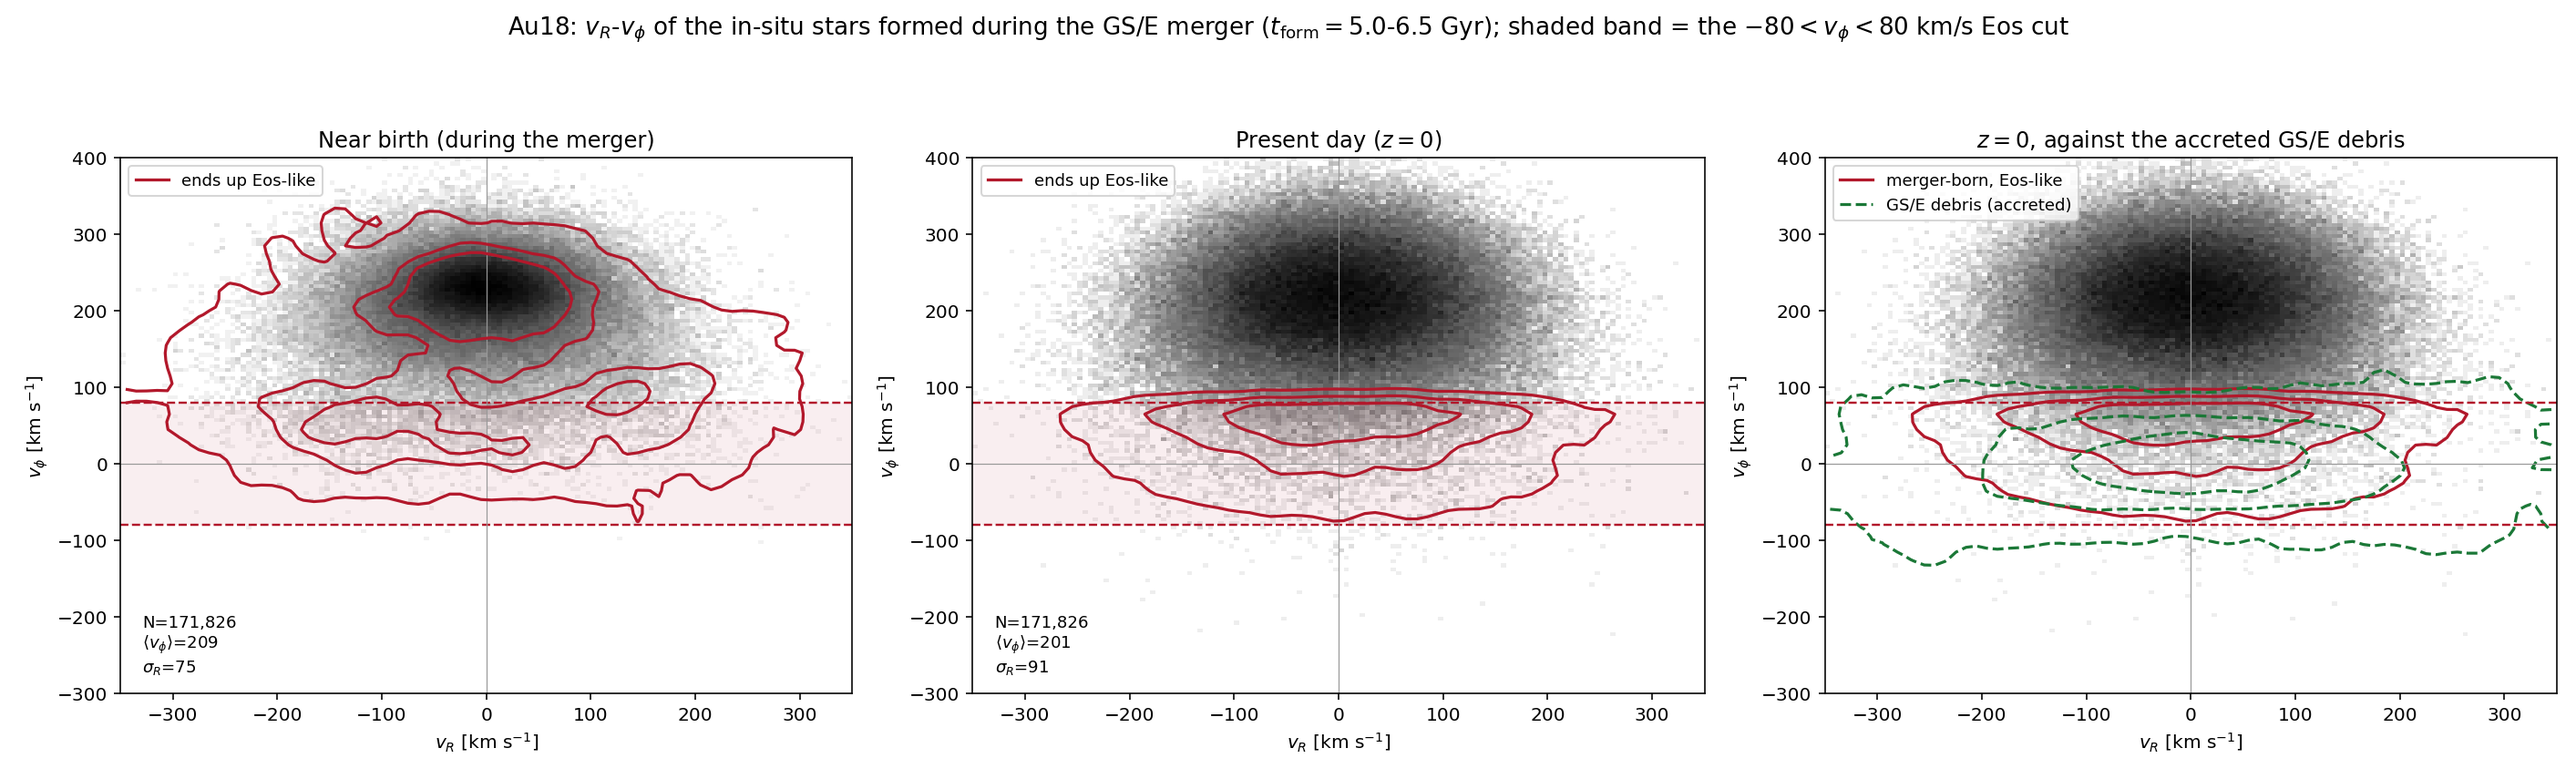
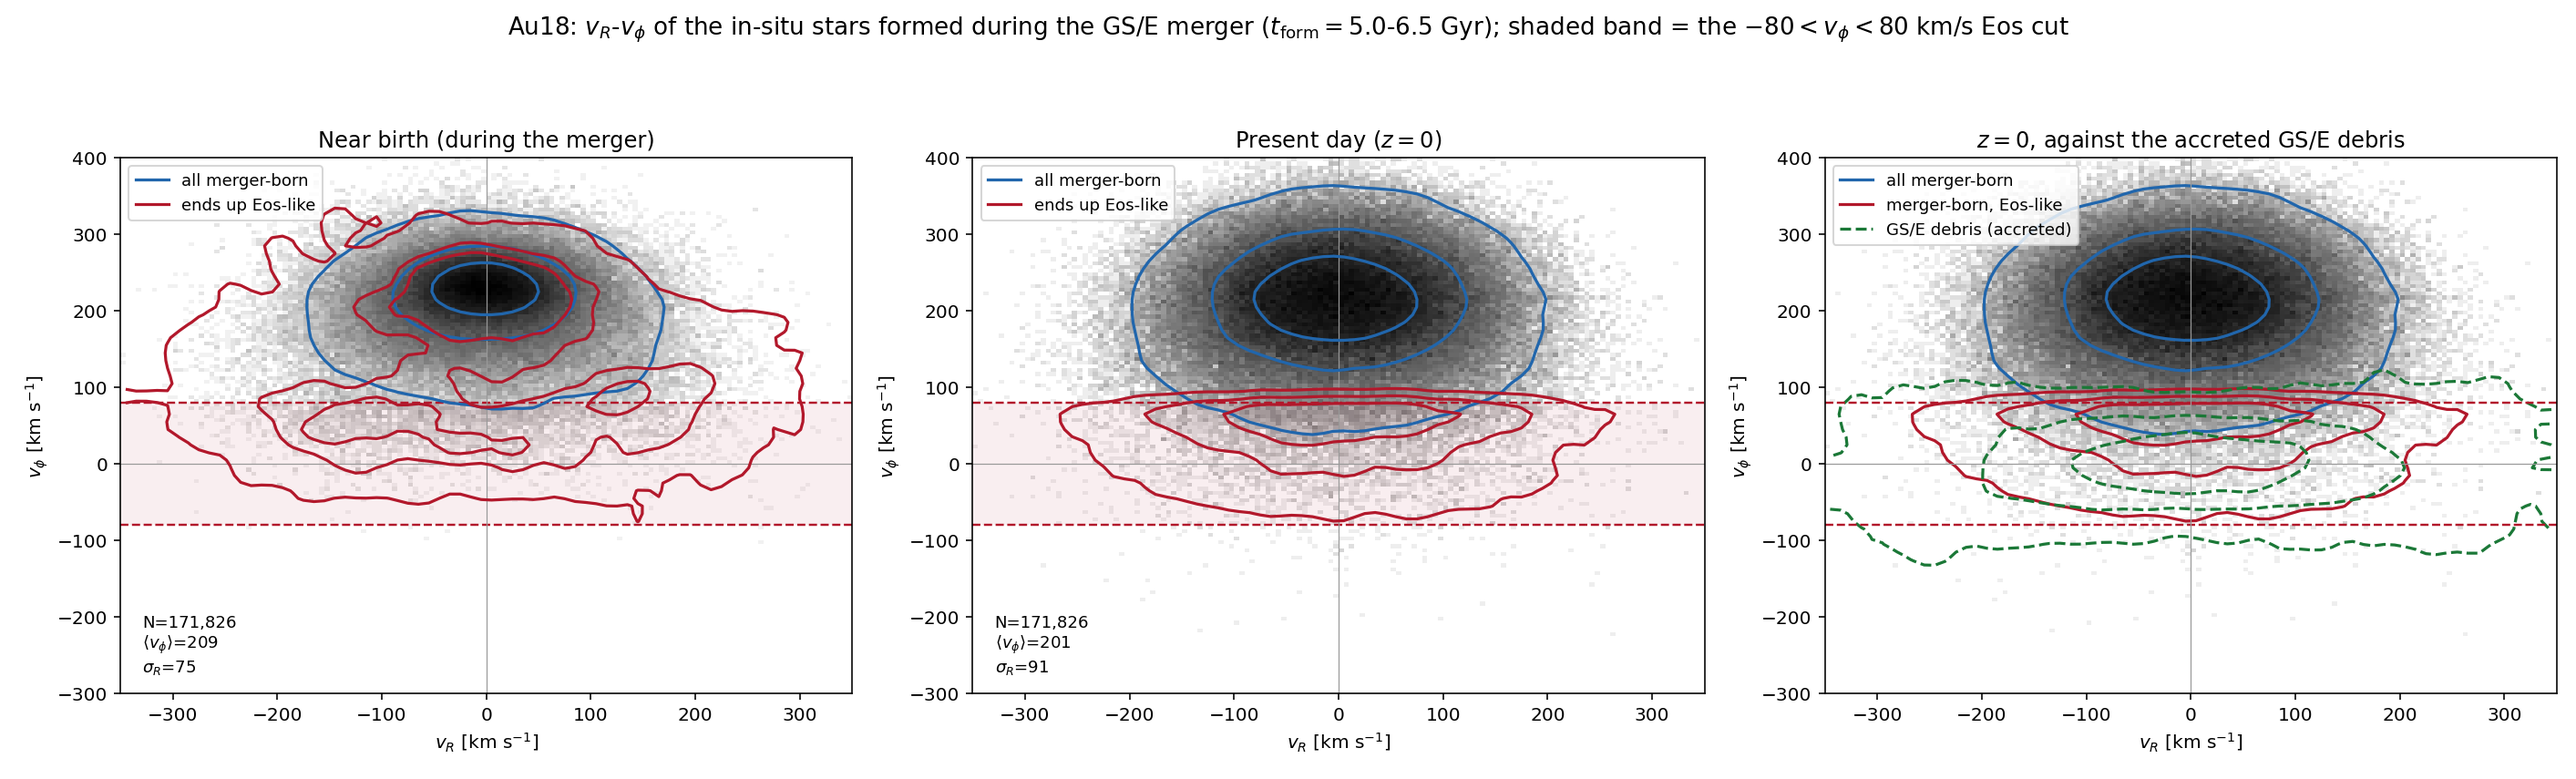
Contour the parent population on the merger v_R-v_phi planes
The Eos-like contours were previously drawn against the greyscale alone, which
makes it hard to judge how far they sit from the population they came from. All
merger-born stars now get their own contours at the same levels on every panel.

Also prints both fractions explicitly, since "fraction of merger-born" was
ambiguous. Of the stars born during the merger window, 4.41% end up Eos-like
(7,583 / 171,826). Read the other way, 17.70% of the galaxy's Eos-like stars were
born in that window (31,651 / 178,785) -- against the 16.92% of all in-situ stars
the window contains, so the merger epoch is barely over-represented among
Eos-like stars by this measure.

diff --git a/auriga/ana_merger_vr_vphi.py b/auriga/ana_merger_vr_vphi.py
@@ -54,6 +54,18 @@ print(f'  of these, Eos-like at z=0 ({-VPHI_MAX:.0f}<v_phi<{VPHI_MAX:.0f}, ecc>{
 print(f'  their v_phi at birth: median {np.median(bvphi[eos]):.1f} km/s '
       f'(whole sample {np.median(bvphi):.1f})')
 
+# Two different fractions, easy to confuse:
+#  (i)  of the stars born during the merger, how many end up Eos-like
+#  (ii) of all the Eos-like stars in the galaxy, how many were born in the merger
+eos_all = (np.abs(cat['vphi']) < VPHI_MAX) & (cat['ecc'] > ECC_MIN)
+born_in = (cat['tform'] > tform.min()) & (cat['tform'] < tform.max())
+print(f"\n  (i)  merger-born stars that end up Eos-like : {eos.sum():,} / {len(bvR):,}"
+      f" = {100*eos.mean():.2f}%")
+print(f"  (ii) Eos-like stars that were born in the merger window : "
+      f"{(eos_all & born_in).sum():,} / {eos_all.sum():,} = "
+      f"{100*(eos_all & born_in).sum()/eos_all.sum():.2f}%")
+print(f"       for scale, that window holds {100*born_in.mean():.2f}% of all in-situ stars")
+
 g_ok = np.isfinite(cat['gse_vphi'])
 fig, axes = plt.subplots(1, 3, figsize=(19.5, 5.9))
 
@@ -67,6 +79,10 @@ for ax, (x, y, title) in zip(axes[:2], [
         ax.axhline(v, color=C_EOS, lw=1.2, ls='--')
     ax.axhline(0, color='.6', lw=.6)
     ax.axvline(0, color='.6', lw=.6)
+    # the parent population, so the Eos contours can be read against it rather
+    # than against the greyscale alone
+    OT.density_contours(ax, x, y, RNG, '#2166ac', label='all merger-born',
+                        levels=(0.9, 0.6, 0.3), bins=70)
     # the subset that ends up Eos-like, on both planes
     OT.density_contours(ax, x[eos], y[eos], RNG, C_EOS, label='ends up Eos-like',
                         levels=(0.9, 0.6, 0.3), bins=70)
@@ -80,6 +96,8 @@ for ax, (x, y, title) in zip(axes[:2], [
 # third panel: z=0 with the accreted debris for scale
 ax = axes[2]
 ax.hist2d(zvR, zvphi, bins=140, range=RNG, cmap='Greys', cmin=1, norm=LogNorm())
+OT.density_contours(ax, zvR, zvphi, RNG, '#2166ac', label='all merger-born',
+                    levels=(0.9, 0.6, 0.3), bins=70)
 OT.density_contours(ax, zvR[eos], zvphi[eos], RNG, C_EOS, label='merger-born, Eos-like',
                     levels=(0.9, 0.6, 0.3), bins=70)
 OT.density_contours(ax, cat['gse_vR'][g_ok], cat['gse_vphi'][g_ok], RNG, C_GSE,
